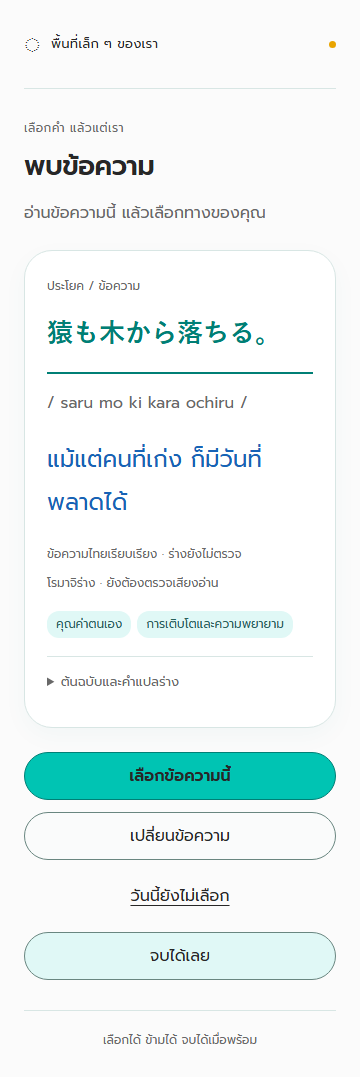
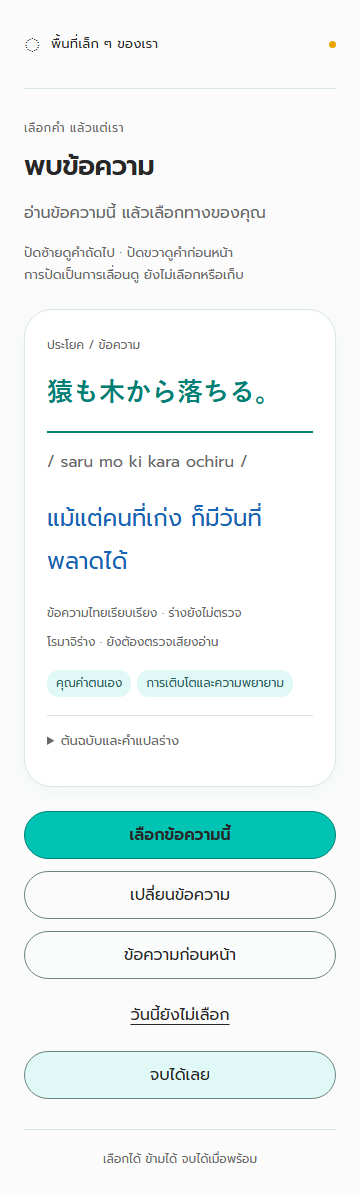
Add touch swipe browsing with previous-card history

diff --git a/src/App.tsx b/src/App.tsx
@@ -5,22 +5,24 @@ import {saveQuote} from './storage';
 import type {SavedQuote} from './storage';
 import QuoteCard from './QuoteCard';
 import HistoryView from './HistoryView';
+import SwipeCard from './SwipeCard';
 type Screen='welcome'|'discover'|'reflect'|'noSelection'|'done'|'history';
-type Round={id:string;deck:string[];currentQuoteId:string;selectedQuoteId:string|null;focus:Focus;draft:string;hugShown:boolean};
+type Round={id:string;deck:string[];visited:string[];cursor:number;currentQuoteId:string;selectedQuoteId:string|null;focus:Focus;draft:string;hugShown:boolean};
 const titles:Record<Screen,string>={welcome:'เลือกคำ แล้วแต่เรา',discover:'พบข้อความ',reflect:'ข้อความที่เราเลือก',noSelection:'วันนี้ยังไม่เลือก',done:'จบรอบนี้แล้ว',history:'ข้อความที่เก็บไว้'};
 export default function App(){
  const [screen,setScreen]=useState<Screen>('welcome');const [round,setRound]=useState<Round|null>(null);const [saved,setSaved]=useState<SavedQuote|null>(null);const [doneSaved,setDoneSaved]=useState(false);const [message,setMessage]=useState('');const [origin,setOrigin]=useState<'welcome'|'done'>('welcome');const heading=useRef<HTMLHeadingElement>(null);
  useEffect(()=>{heading.current?.focus();window.scrollTo(0,0);},[screen]);
- function start(){const [first,...deck]=shuffled();setRound({id:crypto.randomUUID(),deck,currentQuoteId:first,selectedQuoteId:null,focus:null,draft:'',hugShown:false});setSaved(null);setDoneSaved(false);setMessage('');setScreen('discover');}
+ function start(){const [first,...deck]=shuffled();setRound({id:crypto.randomUUID(),deck,visited:[first],cursor:0,currentQuoteId:first,selectedQuoteId:null,focus:null,draft:'',hugShown:false});setSaved(null);setDoneSaved(false);setMessage('');setScreen('discover');}
  function end(){setDoneSaved(!!saved);setRound(null);setSaved(null);setMessage('');setScreen('done');}
  function patch(changes:Partial<Round>){setRound(r=>r?{...r,...changes}:r);}
- function next(){if(!round)return;const [first,...deck]=round.deck.length?round.deck:shuffled(round.currentQuoteId);patch({deck,currentQuoteId:first});}
+ function next(){setRound(r=>{if(!r)return r;if(r.cursor<r.visited.length-1){const cursor=r.cursor+1;return {...r,cursor,currentQuoteId:r.visited[cursor]};}const [first,...deck]=r.deck.length?r.deck:shuffled(r.currentQuoteId);return {...r,deck,visited:[...r.visited,first],cursor:r.cursor+1,currentQuoteId:first};});}
+ function previous(){setRound(r=>r&&r.cursor>0?{...r,cursor:r.cursor-1,currentQuoteId:r.visited[r.cursor-1]}:r);} 
  function save(){if(!round)return;const quote=quotes.find(q=>q.id===round.selectedQuoteId)!;try{const entry=saveQuote({id:round.id,quoteId:quote.id,quoteText:snapshotText(quote),focus:round.focus});setSaved(entry);setMessage('เก็บข้อความไว้แล้ว');}catch(e){setMessage((e as Error).message);}}
  function history(){setOrigin(screen==='done'?'done':'welcome');setScreen('history');}
  const quote=round?quotes.find(q=>q.id===(round.selectedQuoteId??round.currentQuoteId)):null;
  return <main><header className="brand"><span className="brand-symbol" aria-hidden="true">◌</span><span>พื้นที่เล็ก ๆ ของเรา</span><span className="brand-dot" aria-hidden="true"/></header><div className="page"><p className="eyebrow">{screen==='welcome'?'ค่อย ๆ อยู่กับคำหนึ่งคำ':screen==='done'?'พักตรงนี้ได้':'เลือกคำ แล้วแต่เรา'}</p><h1 ref={heading} tabIndex={-1}>{titles[screen]}</h1>
  {screen==='welcome'&&<><div className="welcome-art" aria-hidden="true"><span>คำ</span></div><p className="intro">อ่านข้อความสั้น ๆ แล้วเลือกได้ว่าจะทำอะไรต่อ</p><div className="actions"><button className="primary" onClick={start}>เริ่ม</button><button onClick={history}>ดูข้อความที่เก็บไว้</button></div></>}
- {screen==='discover'&&quote&&<><p className="subtle">อ่านข้อความนี้ แล้วเลือกทางของคุณ</p><div aria-live="polite" aria-atomic="true"><QuoteCard quote={quote}/></div><div className="actions"><button className="primary" onClick={()=>{patch({selectedQuoteId:quote.id});setScreen('reflect');}}>เลือกข้อความนี้</button><button onClick={next}>เปลี่ยนข้อความ</button><button className="text-button" onClick={()=>setScreen('noSelection')}>วันนี้ยังไม่เลือก</button><button className="finish" onClick={end}>จบได้เลย</button></div></>}
+ {screen==='discover'&&quote&&<><p className="subtle">อ่านข้อความนี้ แล้วเลือกทางของคุณ</p><p className="hint" id="swipe-help">ปัดซ้ายดูคำถัดไป · ปัดขวาดูคำก่อนหน้า<br/>การปัดเป็นการเลื่อนดู ยังไม่เลือกหรือเก็บ</p><SwipeCard onNext={next} onPrevious={previous}><div aria-live="polite" aria-atomic="true"><QuoteCard key={quote.id} quote={quote}/></div></SwipeCard><div className="actions"><button className="primary" onClick={()=>{patch({selectedQuoteId:quote.id});setScreen('reflect');}}>เลือกข้อความนี้</button><button onClick={next}>เปลี่ยนข้อความ</button><button onClick={previous} disabled={!round||round.cursor===0}>ข้อความก่อนหน้า</button><button className="text-button" onClick={()=>setScreen('noSelection')}>วันนี้ยังไม่เลือก</button><button className="finish" onClick={end}>จบได้เลย</button></div></>}
  {screen==='reflect'&&round&&quote&&<><div className="finish-top"><span>ทุกส่วนด้านล่างข้ามได้</span><button className="finish" onClick={end}>จบเมื่อพร้อม</button></div><QuoteCard quote={quote}/><section className="review" aria-label="อ่านทวน"><h2>อ่านทวน</h2>{round.focus&&<p>นึกถึง: {focusLabel(round.focus)}</p>}{round.draft.trim()&&<p className="draft-preview">{round.draft}</p>}{!round.focus&&!round.draft.trim()&&<p className="subtle">มีเพียงคำที่คุณเลือก</p>}</section><fieldset><legend>นึกถึงใครหรืออะไร <span>· ข้ามได้</span></legend><div className="choices">{([['self','ตนเอง'],['other','คนอื่น'],['things','สิ่งอื่น'],[null,'ไม่ระบุ']] as [Focus,string][]).map(([value,label])=><label key={label}><input type="radio" name="focus" value={value??''} checked={round.focus===value} onChange={()=>patch({focus:value})}/><span>{label}</span></label>)}</div><p className="hint">สิ่งอื่น เช่น สัตว์ เพลง ธรรมชาติ หรือสิ่งที่ผูกพัน</p></fieldset><section className="writing"><label htmlFor="draft">พิมพ์เพิ่ม <span>· ข้ามได้</span></label><p className="hint" id="draft-prompt">พิมพ์ตามคำที่เลือก หรือเขียนด้วยคำของคุณก็ได้</p><textarea id="draft" maxLength={500} value={round.draft} onChange={e=>patch({draft:e.target.value})} aria-describedby="draft-prompt draft-help"/><p className="hint" id="draft-help">อยู่ในรอบนี้เท่านั้น · คำที่พิมพ์จะหายเมื่อจบรอบ</p></section><section className="save-section"><p className="hint">เก็บคำที่เลือกและมุมที่ระบุในเบราว์เซอร์นี้</p><button onClick={save}>{saved&&saved.focus!==round.focus?'อัปเดตบันทึก':'เก็บข้อความไว้'}</button><p role="status">{message}</p></section><button className="primary full" onClick={end}>จบเมื่อพร้อม</button></>}
  {screen==='noSelection'&&round&&<><p className="intro">วันนี้จบตรงนี้ได้เลย</p><button className="primary full" onClick={end}>จบได้เลย</button><div className="hug-area">{round.hugShown?<div role="status"><svg aria-hidden="true" viewBox="0 0 180 150" width="150" height="125"><path d="M35 108Q0 64 42 69Q37 13 66 27Q92 6 119 29Q150 19 143 68Q184 62 150 111Q92 154 35 108" fill="#E0F8F6" stroke="#007F75" strokeWidth="2"/><circle cx="72" cy="65" r="3" fill="#272727"/><circle cx="106" cy="65" r="3" fill="#272727"/><path d="M80 80Q89 88 98 80" fill="none" stroke="#272727" strokeWidth="2"/></svg><p>ไว้ค่อยกลับมาเมื่อพร้อม</p></div>:<button onClick={()=>patch({hugShown:true})}>รับกอด</button>}</div></>}
  {screen==='done'&&<><div className="done-art" aria-hidden="true">✓</div>{doneSaved&&<p className="saved-note">เก็บข้อความไว้แล้ว</p>}<div className="actions"><button className="primary" onClick={start}>เริ่มรอบใหม่</button><button onClick={history}>ดูข้อความที่เก็บไว้</button></div></>}

diff --git a/tests/swipe.spec.ts b/tests/swipe.spec.ts
@@ -1,0 +1,36 @@
+import {test,expect,type Page} from '@playwright/test';
+test.use({hasTouch:true,viewport:{width:360,height:800}});
+const button=(p:Page,name:string)=>p.getByRole('button',{name,exact:true});
+const id=(p:Page)=>p.getByTestId('quote').getAttribute('data-quote-id');
+async function swipe(p:Page,dx:number,dy=0,selector='.quote-headword'){
+ const target=p.locator(selector);await target.scrollIntoViewIfNeeded();const b=(await target.boundingBox())!;
+ const x=dx<0?b.x+b.width-15:b.x+15,y=b.y+Math.min(b.height/2,45);
+ const c=await p.context().newCDPSession(p);
+ await c.send('Input.dispatchTouchEvent',{type:'touchStart',touchPoints:[{x,y}]});
+ for(let i=1;i<=6;i++){await c.send('Input.dispatchTouchEvent',{type:'touchMove',touchPoints:[{x:x+dx*i/6,y:y+dy*i/6}]});await p.waitForTimeout(20);}
+ await c.send('Input.dispatchTouchEvent',{type:'touchEnd',touchPoints:[]});await p.waitForTimeout(100);await c.detach();
+}
+test.beforeEach(async({page})=>{await page.goto('/');await button(page,'เริ่ม').click();});
+test('swipe: left next, right previous, first boundary, replay and no save',async({page})=>{
+ const first=await id(page);await expect(button(page,'ข้อความก่อนหน้า')).toBeDisabled();await swipe(page,140);expect(await id(page)).toBe(first);
+ await swipe(page,-140);const second=await id(page);expect(second).not.toBe(first);await expect(button(page,'ข้อความก่อนหน้า')).toBeEnabled();
+ await swipe(page,140);expect(await id(page)).toBe(first);await swipe(page,-140);expect(await id(page)).toBe(second);
+ await button(page,'ข้อความก่อนหน้า').focus();await page.keyboard.press('Enter');expect(await id(page)).toBe(first);
+ await button(page,'เปลี่ยนข้อความ').focus();await page.keyboard.press('Enter');expect(await id(page)).toBe(second);
+ expect(await page.evaluate(()=>localStorage.getItem('ooca-demo:saved-quotes:v1'))).toBeNull();
+ await page.screenshot({path:'evidence/swipe-mobile.png',fullPage:true});
+ await button(page,'เลือกข้อความนี้').click();expect(await id(page)).toBe(second);await button(page,'จบเมื่อพร้อม').first().click();await expect(page.getByRole('heading',{name:'จบรอบนี้แล้ว'})).toBeVisible();
+});
+test('swipe: vertical scroll, short drag and details touch never browse',async({page})=>{
+ const first=await id(page);await swipe(page,-25);expect(await id(page)).toBe(first);
+ await swipe(page,0,-150);expect(await id(page)).toBe(first);expect(await page.evaluate(()=>scrollY)).toBeGreaterThan(0);
+ await swipe(page,-140,0,'.source-details summary');expect(await id(page)).toBe(first);
+ const wasOpen=await page.locator('.source-details').evaluate(el=>(el as HTMLDetailsElement).open);await page.locator('.source-details summary').tap();await expect.poll(()=>page.locator('.source-details').evaluate(el=>(el as HTMLDetailsElement).open)).toBe(!wasOpen);expect(await id(page)).toBe(first);
+ await button(page,'เลือกข้อความนี้').tap();await expect(page.getByRole('heading',{name:'ข้อความที่เราเลือก'})).toBeVisible();expect(await id(page)).toBe(first);
+});
+test('swipe: deck seam and previous/next reuse visited cards',async({page})=>{
+ const seen=[await id(page)];for(let i=1;i<53;i++){await button(page,'เปลี่ยนข้อความ').click();seen.push(await id(page));}
+ expect(new Set(seen).size).toBe(53);await swipe(page,-140);const next=await id(page);expect(next).not.toBe(seen[52]);
+ await swipe(page,140);expect(await id(page)).toBe(seen[52]);await swipe(page,140);expect(await id(page)).toBe(seen[51]);
+ await button(page,'เปลี่ยนข้อความ').click();expect(await id(page)).toBe(seen[52]);await swipe(page,-140);expect(await id(page)).toBe(next);
+});

diff --git a/src/SwipeCard.tsx b/src/SwipeCard.tsx
@@ -1,0 +1,28 @@
+import {useRef} from 'react';
+import type {PointerEvent,ReactNode} from 'react';
+type Gesture={id:number;x:number;y:number;vertical:boolean};
+export default function SwipeCard({children,onNext,onPrevious}:{children:ReactNode;onNext:()=>void;onPrevious:()=>void}){
+ const gesture=useRef<Gesture|null>(null);
+ const suppressClickUntil=useRef(0);
+ function down(e:PointerEvent<HTMLDivElement>){
+  suppressClickUntil.current=0;
+  if(!e.isPrimary){gesture.current=null;return;}
+  if(e.button!==0||(e.target as Element).closest('button,a,input,textarea,select,details'))return;
+  gesture.current={id:e.pointerId,x:e.clientX,y:e.clientY,vertical:false};
+  e.currentTarget.setPointerCapture(e.pointerId);
+ }
+ function move(e:PointerEvent<HTMLDivElement>){
+  const g=gesture.current;if(!g||g.id!==e.pointerId)return;
+  const dx=Math.abs(e.clientX-g.x),dy=Math.abs(e.clientY-g.y);
+  if(dy>12&&dy>dx)g.vertical=true;
+ }
+ function up(e:PointerEvent<HTMLDivElement>){
+  const g=gesture.current;gesture.current=null;if(!g||g.id!==e.pointerId)return;
+  const dx=e.clientX-g.x,dy=Math.abs(e.clientY-g.y);
+  if(!g.vertical&&Math.abs(dx)>=60&&Math.abs(dx)>dy*1.5){
+   suppressClickUntil.current=Date.now()+500;e.preventDefault();
+   if(dx<0)onNext();else onPrevious();
+  }
+ }
+ return <div className="swipe-surface" aria-describedby="swipe-help" onPointerDown={down} onPointerMove={move} onPointerUp={up} onPointerCancel={()=>{gesture.current=null;}} onLostPointerCapture={()=>{gesture.current=null;}} onClickCapture={e=>{if(Date.now()<suppressClickUntil.current){e.preventDefault();e.stopPropagation();}}}>{children}</div>;
+}

diff --git a/playwright.config.ts b/playwright.config.ts
@@ -1,2 +1,2 @@
 import {defineConfig} from '@playwright/test';
-export default defineConfig({testDir:'./tests',workers:1,reporter:[['list'],['json',{outputFile:'evidence/test-results.json'}],['html',{outputFolder:'evidence/report',open:'never'}]],use:{baseURL:'http://127.0.0.1:5173',viewport:{width:360,height:800},trace:'retain-on-failure'},webServer:{command:'npm run dev -- --port 5173',url:'http://127.0.0.1:5173',reuseExistingServer:true}});
+export default defineConfig({testDir:'./tests',workers:1,reporter:[['list'],['json',{outputFile:'evidence/test-results.json'}],['html',{outputFolder:'evidence/report',open:'never'}]],use:{baseURL:process.env.TEST_BASE_URL||'http://127.0.0.1:5181',viewport:{width:360,height:800},trace:'retain-on-failure'},webServer:process.env.TEST_BASE_URL?undefined:{command:'node node_modules/vite/bin/vite.js --host 127.0.0.1 --port 5181 --strictPort',url:'http://127.0.0.1:5181',reuseExistingServer:true}});

diff --git a/src/style.css b/src/style.css
@@ -19,3 +19,4 @@
 .quote-card .source-details p{font-size:15px;line-height:1.8;margin:14px 0;white-space:pre-wrap}
 .history-day details p,.history-day summary{white-space:pre-wrap}
 .quote-card .quote-headword{line-height:1.65}
+.swipe-surface{touch-action:pan-y pinch-zoom}button:disabled{color:#686868;background:#F5F5F5;cursor:default}button:disabled:hover{background:transparent}
